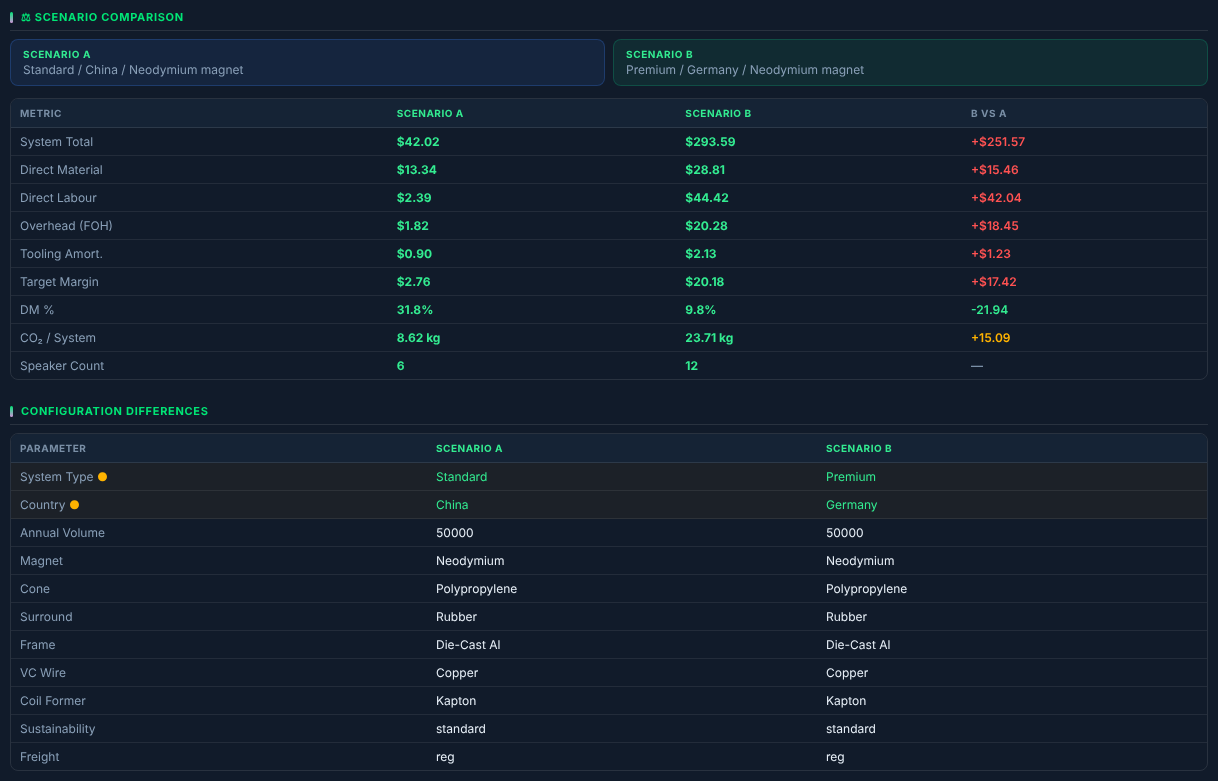
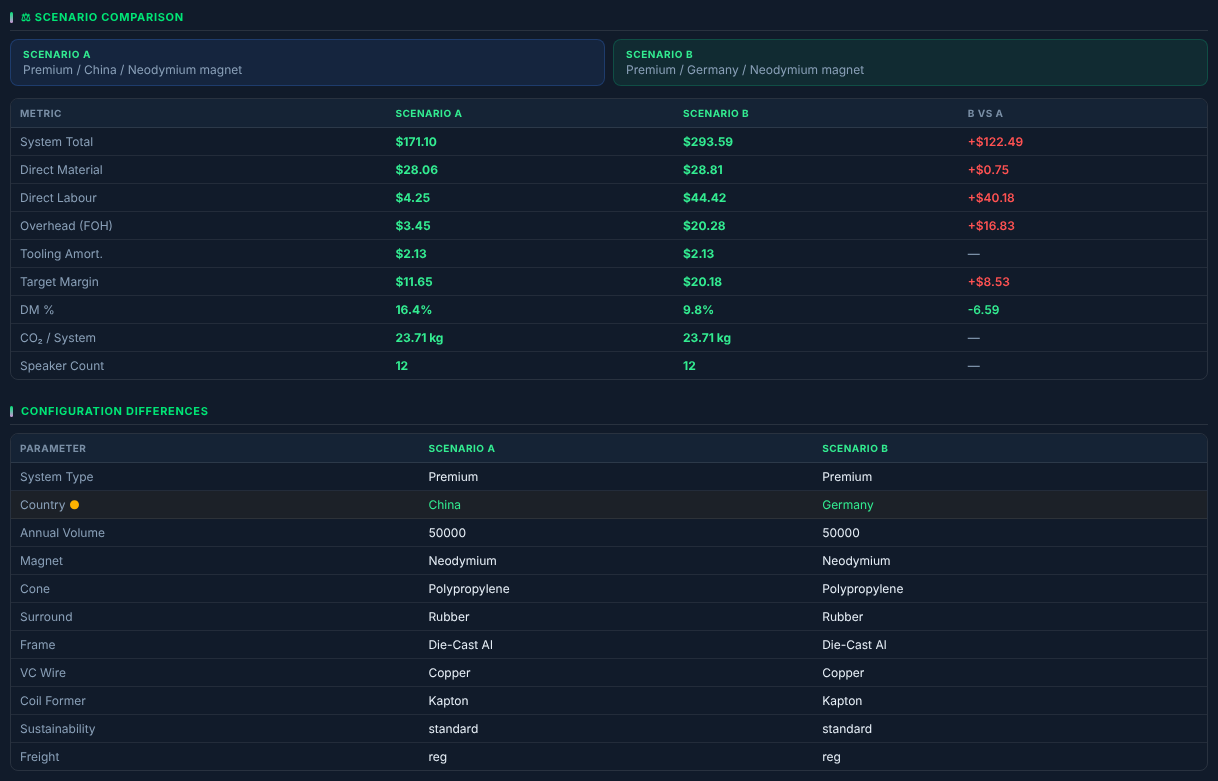
Apply expert-review must-fixes to the user guide (and two tool strings)
An independent domain-expert review (automotive audio cost engineering
persona) graded the guide B+ and flagged four factual issues, all fixed
in both the repo guide and the in-tool About guide:

- Compare worked-example screenshot retaken with the correct procedure
  (Scenario A = Premium/China, not Standard) — it now shows the exact
  figures the text quotes ($171.10 → $293.59, Δ +$122.49)
- Compare tab description now lists its real summary rows (system total,
  DM, labour, FOH, tooling, margin, DM%, CO2, speaker count)
- GGEC sanity rule corrected for margin-on-price arithmetic: customer
  price × 0.89, not ÷ 1.11 (three tool strings + both guides)
- Margin base documented: the slider applies to works cost; a supplier's
  "X% margin on sales" ≈ X/(100−X) here

Should-fixes applied alongside:
- Glossary extended with the waterfall's smaller layers (SG&A, ED&D,
  ICC/payment terms, warranty, inbound logistics, integration parts)
- Tooling caution (OEM-paid tooling POs) and volume price-break caveat
- New "Handling a real supplier quote" section (incoterm, tooling,
  volume, exclusions) + date-stamp/Trends advice
- "Actual rates, never a multiplier" softened to the honest claim
  (sourced rate cards with confidence badges)
- Benchmark caption "(X% cost advantage)" corrected to "(X% of the
  field)"; timing and column-label inconsistencies aligned; linked TOC

Claude-Session: https://claude.ai/code/session_01UxcE7KBmzXNDjKXkApu3kZ

diff --git a/speaker-cost-engine.html b/speaker-cost-engine.html
@@ -1316,7 +1316,7 @@ html[data-theme="light"] .brand-version{
         <div class="about-section avis" id="about-howto">
           <div class="about-hero">
             <h2>360° Automotive Speaker Should-Cost Engine — User Guide</h2>
-            <p>SonoCost builds the cost of an automotive speaker or complete music system from the bottom up, the way a supplier’s own cost engineer would: every gram of material, every minute of factory labour and machine time, then overheads, tooling, freight, duty and margin. You describe the system on the left; the tool prices it live on the right — for any of 22 manufacturing countries, using that country’s actual labour and energy rates (never a “multiplier”). Every number can be opened with its Σ trace to see the arithmetic behind it. If you have never done costing before, start with the guide below — it takes about 15 minutes to go from zero to a defendable number.</p>
+            <p>SonoCost builds the cost of an automotive speaker or complete music system from the bottom up, the way a supplier’s own cost engineer would: every gram of material, every minute of factory labour and machine time, then overheads, tooling, freight, duty and margin. You describe the system on the left; the tool prices it live on the right — for any of 22 manufacturing countries, each with its own rate card (labour, electricity, machine rates) carrying a source, date and confidence badge — no blanket “country multipliers”. Every number can be opened with its Σ trace to see the arithmetic behind it. If you have never done costing before, start with the guide below — it takes about 20 minutes to go from zero to a defendable number.</p>
             <div class="about-badges">
               <span class="about-badge badge-blue">22 Country Rate Cards</span>
               <span class="about-badge badge-green">SMM / SHFE Oct 2026</span>
@@ -1420,7 +1420,7 @@ html[data-theme="light"] .brand-version{
               <div class="step-num">7</div>
               <div class="step-body">
                 <h4>Set the commercial lens</h4>
-                <p><strong>Freight</strong> (Domestic / Regional / International), <strong>Import Duty</strong> and <strong>Margin</strong> decide what question you are answering. Defaults (Regional, 5% duty, 8% margin) answer <em>"what should we pay a Tier-1, delivered?"</em></p>
+                <p><strong>Freight</strong> (Domestic / Regional / International), <strong>Import Duty</strong> and <strong>Margin</strong> decide what question you are answering. Defaults (Regional, 5% duty, 8% margin) answer <em>"what should we pay a Tier-1, delivered?"</em> Note: the margin slider applies to <strong>works cost</strong>; a supplier's "X% margin on sales" ≈ X⁄(100−X) here (8% on sales ≈ 8.7%).</p>
                 <div class="step-warn">⚠ Comparing against a supplier's factory-gate (EXW) quote? Set margin 0%, duty 0% and read the <strong>Works Cost</strong> line in the cost build-up, not the Delivered Total.</div>
               </div>
             </div>
@@ -1493,8 +1493,8 @@ html[data-theme="light"] .brand-version{
               <div>✦ <strong>Benchmarking tab</strong> — your works cost against 10 real systems (Bose, Harman Kardon, B&amp;O, Burmester, CN-EV 4D…). A Standard system beating 10/10 is expected; a 4D system beats ~4/10 because the benchmarks include budget systems. You want to land <em>inside the corridor</em> of comparable tiers, not win every row.</div>
               <div>✦ <strong>Σ trace</strong> — open it for the most expensive driver and the amp. If you can read each line aloud and it makes sense, the number is defendable.</div>
               <div>✦ <strong>Data &amp; Sources tab</strong> — every rate the engine used right now, with source, date and a HIGH/MED/LOW confidence badge. Items marked EST are engineering estimates, labelled as such — nothing in this tool pretends to be sourced data unless it is.</div>
-              <div>✦ <strong>Sanity rule</strong> — a Chinese ODM's customer price ÷ 1.11 ≈ factory cost (GGEC reports ~11% gross margin). If a quote is far above your should-cost + reasonable margin, you have found your negotiation.</div>
-              <div>✦ <strong>Compare tab</strong> — save your baseline as Scenario A, change one thing (country, magnet, tier), save as B. The delta table shows the nine major cost lines (DM, labour, machine, FOH, G&amp;A, tooling, amp, wiring, total) plus what configuration changed. This is the strongest slide you can make.</div>
+              <div>✦ <strong>Sanity rule</strong> — a Chinese ODM's customer price × 0.89 ≈ factory cost (GGEC reports ~11% gross margin — margin on <em>price</em>, so multiply by 1−0.11). If a quote is far above your should-cost + reasonable margin, you have found your negotiation.</div>
+              <div>✦ <strong>Compare tab</strong> — save your baseline as Scenario A, change one thing (country, magnet, tier), save as B. The delta table shows the summary lines (system total, direct material, direct labour, overhead, tooling amortisation, target margin, DM%, CO&#8322;, speaker count) plus a diff of what configuration changed. This is the strongest slide you can make.</div>
               <div>✦ <strong>Export</strong> — PDF / PPT buttons (top right) generate the deck: KPIs, BOM, waterfall, benchmarks. Switch currency first if the audience thinks in €, ₹ or ¥.</div>
             </div>
           </div>
@@ -1617,7 +1617,7 @@ scrap    per step = (machCost + labCost) × scrap_rate</div>
             <div class="ref-card">
               <h4>Why the multiplier approach was removed</h4>
               <p>Earlier versions scaled a Western machine rate by a country multiplier. Real cost engineering doesn't accept that: a 250-ton moulding cell in Dongguan has an <strong>actual, knowable all-in rate</strong> (≈¥150–200/hr published) that no scaling factor reproduces reliably. The engine now carries, per country: fully burdened labour by skill tier, actual industrial electricity, and machine rates that are published where they exist and transparently derived where they don't — each value labelled with its source, date and confidence in the <strong>Data &amp; Sources</strong> tab.</p>
-              <div class="step-warn" style="margin-top:10px">Validation anchor: GGEC (002045.SZ), one of China's largest speaker ODMs, runs a 10.95% gross margin (FY2025) — a competitive should-cost lands ≈ customer price ÷ 1.11. Tonly (Harman's ODM) runs 11.4–13.5%.</div>
+              <div class="step-warn" style="margin-top:10px">Validation anchor: GGEC (002045.SZ), one of China's largest speaker ODMs, runs a 10.95% gross margin on sales (FY2025) — a competitive should-cost lands ≈ customer price × 0.89. Tonly (Harman's ODM) runs 11.4–13.5%.</div>
             </div>
           </div>
 
@@ -4081,7 +4081,7 @@ function renderBenchmarking(r) {
   var pct = (cheaper / BENCHMARKS.length * 100).toFixed(0);
   html += '<div class="card" style="padding:1rem;margin-top:1rem;border-color:var(--blue)">';
   html += '<p>Your system works cost (EXW ' + esc(r.inp.country) + ') <strong style="color:var(--blue2)">' + fGBP(r.totalWorks) + '</strong>, delivered total incl. margin <strong style="color:var(--gold)">' + fGBP(r.total) + '</strong> ';
-  html += 'beats <strong style="color:var(--green2)">' + cheaper + ' of ' + BENCHMARKS.length + '</strong> benchmarks (' + pct + '% cost advantage).</p>';
+  html += 'beats <strong style="color:var(--green2)">' + cheaper + ' of ' + BENCHMARKS.length + '</strong> benchmarks (' + pct + '% of the field).</p>';
   html += '<p style="font-size:10px;color:var(--t3);margin-top:6px;font-style:italic">⚠ Benchmark est_cost figures are EXW China factory-gate estimates derived from public teardown reports, SMM/SHFE commodity data, and analyst data (Jun 2026). Not supplier-verified. Use for directional reference only.</p>';
   html += '</div>';
 
@@ -5684,7 +5684,7 @@ function renderDataSources(r){
   html+='<div class="section-title" style="font-size:12px;margin-top:16px">Electronics Model & Validation Anchors</div>';
   html+='<div class="card" style="padding:12px;font-size:11px;color:var(--t2);line-height:1.7">';
   html+='Amplifier/DSP is a component-level parametric model ('+_srcCell('derived').replace('Derived from China decomposition x local energy & labour','Digi-Key/Mouser/LCSC/TI/ADI + Atlas PCB 2026 + JLCPCB')+'): TAS6424-class $4/IC OEM, ADAU1452/1467 DSP, AD2428 A2B nodes, PSU 2.50+0.012×W, PCB $2.20/dm², SMT $0.004/placement.<br>';
-  html+='<strong style="color:var(--t1)">Validation anchors:</strong> GGEC (China speaker ODM) gross margin 10.95% FY2025 → should-cost ≈ customer price ÷ 1.11; Tonly GM 11.4–13.5%; China 6.5&quot; coaxial EXW $3.6/pair–$6/pc (live listings); US IM rates $30–150/hr published; stripped 4-ch amp model $26 vs Nissan Kicks budget Bose amp (TechInsights, qualitative).<br>';
+  html+='<strong style="color:var(--t1)">Validation anchors:</strong> GGEC (China speaker ODM) gross margin 10.95% of sales FY2025 → should-cost ≈ customer price × 0.89; Tonly GM 11.4–13.5%; China 6.5&quot; coaxial EXW $3.6/pair–$6/pc (live listings); US IM rates $30–150/hr published; stripped 4-ch amp model $26 vs Nissan Kicks budget Bose amp (TechInsights, qualitative).<br>';
   html+='<strong style="color:var(--t1)">Honest limits:</strong> items marked EST have no published source — they are engineering estimates with stated derivations, not data. Supplier RFQs will beat this model; its job is to be directionally right and fully auditable.</div>';
 
   html+='<div class="section-title" style="margin-top:18px">Global Industry Map — who actually makes automotive audio</div>';

diff --git a/SONOCOST-GUIDE.md b/SONOCOST-GUIDE.md
@@ -4,13 +4,15 @@
 
 This guide is written for someone who has never done costing before. Follow it top to bottom once (about 20 minutes) and you will be able to produce — and defend — a should-cost for any system the tool supports, from a base 6-speaker setup to a 26-speaker Immersive 4D system with seat actuators. Every number printed in this guide was generated by the tool itself at the settings described, so your screen will match what you read.
 
-> The same guide lives inside the tool: **📘 About → How to Use**. This document adds screenshots.
+> The same guide lives inside the tool: **📘 About → How to Use**. This document adds the screenshots and three worked case studies.
+
+**Contents:** [1. What this tool does](#1-what-this-tool-does-one-paragraph) · [2. Open & sign in](#2-open-the-tool-and-sign-in) · [3. First costing in 8 steps](#3-your-first-costing--8-steps) · [4. The five system tiers](#4-the-five-system-tiers--what-you-are-actually-buying) · [5. Costing a single speaker](#5-costing-a-single-speaker-any-type) · [6. The output tabs](#6-reading-the-output-tabs) · [7–9. Worked examples](#7-worked-example-a--what-should-the-base-audio-cost) · [10. Prove the number](#10-before-you-present-prove-the-number) · [11. Glossary](#11-plain-language-glossary) · [12. Five common mistakes](#12-five-mistakes-every-new-grad-makes-once)
 
 ---
 
 ## 1. What this tool does (one paragraph)
 
-SonoCost builds cost **bottom-up**, the way a supplier's own cost engineer would: every gram of material (magnet, cone, voice-coil wire…), every minute of factory labour and machine time, then overheads, tooling, freight, duty and margin. You describe the system on the left side of the screen; the tool prices it live on the right — for any of **22 manufacturing countries**, using each country's **actual labour and electricity rates** (never a "country multiplier"). Any number can be opened with its **Σ trace** to see the arithmetic behind it. That is the whole idea: *a number you can explain line by line.*
+SonoCost builds cost **bottom-up**, the way a supplier's own cost engineer would: every gram of material (magnet, cone, voice-coil wire…), every minute of factory labour and machine time, then overheads, tooling, freight, duty and margin. You describe the system on the left side of the screen; the tool prices it live on the right — for any of **22 manufacturing countries**, each with its own rate card (labour, electricity, machine rates) carrying a **source, date and confidence badge** — no blanket "country multipliers". Any number can be opened with its **Σ trace** to see the arithmetic behind it. That is the whole idea: *a number you can explain line by line.*
 
 ---
 
@@ -45,10 +47,10 @@ You land on the **System Overview** with a Standard 6-speaker system in China al
 1. **Sign in** (above). You start from a working baseline: Standard, China, 50k vehicles/year.
 2. **Pick the System Type** (top of left panel). This is the biggest cost decision — it sets speaker count, amplifier, DSP, A2B bus, and (for 4D) seat actuators. The five tiers are explained in the next section.
 3. **Pick the Manufacturing Country.** 22 real choices, each labelled with who actually builds there (*Vietnam (Foster speaker hub)*, *Brazil (Harman/JBL Selenium)*…). Picking a country swaps in that country's actual labour rates, electricity price and machine-hour costs. China comes in three flavours — *national avg* (the default used throughout this guide), *Coastal (Guangdong)* and *Inland* — with slightly different labour rates, so note which one you picked. **Cost the system where it will really be built, not where your office is** — the same Premium system is **$171 built in China and $294 built in Germany**.
-4. **Set the Annual Volume** slider (1k–500k vehicles/year). Volume mainly changes how tooling (moulds, dies, fixtures) is spread: one tool set per speaker type, amortised over 4 years. Low volume = each unit carries more tooling. Get the number from the vehicle programme team; 50k is a typical single model, 150–250k a shared platform.
+4. **Set the Annual Volume** slider (1k–500k vehicles/year). Volume mainly changes how tooling (moulds, dies, fixtures) is spread: one tool set per speaker type, amortised over 4 years. Low volume = each unit carries more tooling. Get the number from the vehicle programme team; 50k is a typical single model, 150–250k a shared platform. Two real-world cautions: (a) many OEM programmes **pay production tooling on a separate tooling PO**, in which case the supplier's piece price contains no tooling — zero it out mentally (or compare against the tool's works cost *minus* the tooling line in the Σ trace) before comparing; (b) the model holds material rates flat with volume, but in reality purchased electronics and magnets carry volume price breaks — treat low-volume material costs as slightly optimistic.
 5. **Review the material choices — the defaults are correct.** NdFeB N38H magnet, PP cone, rubber surround, die-cast aluminium frame, OFC copper wire, Kapton former, 4 Ω: that is the automotive mainstream, straight from teardowns. Only change them to model a specific design. Every change re-prices instantly, so the fastest way to learn is to flip one and watch the BOM move.
 6. **Tick technology features** only if the spec has them: ANC, DSP, sound zones, 4D haptics, A2B bus, GaN amp, neural DSP, OTA calibration, head tracking… each adds its real component cost. Leave all unticked for a base costing.
-7. **Set the commercial lens.** Freight (Domestic/Regional/International), import duty, and target margin decide which question you are answering. The defaults (Regional, 5% duty, 8% margin) answer *"what should we pay a Tier-1, delivered?"* — see §7 for the EXW variant.
+7. **Set the commercial lens.** Freight (Domestic/Regional/International), import duty, and target margin decide which question you are answering. The defaults (Regional, 5% duty, 8% margin) answer *"what should we pay a Tier-1, delivered?"* — see §7 for the EXW variant. One convention to know: **the margin slider applies to works cost**. Suppliers usually quote margin as a % of *selling price*, so a supplier's "8% margin on sales" corresponds to about 8.7% on this slider (X% on sales ≈ X⁄(100−X) on cost).
 8. **Press ▶ Calculate Full Should-Cost** (the tool also re-prices live). Read the five tiles, then scroll down the Overview: the per-speaker table, the cost build-up from works cost to delivered total, and the system electronics lines (amp, wiring, connectors).
 
 ---
@@ -75,7 +77,7 @@ Where the jumps come from: Standard→Enhanced adds the amplifier and subwoofer.
 
 Every system is built from individual drivers, each priced separately in the **System Drivers** table on the Overview. In the Standard system:
 
-| Driver | Type | Size | Qty | Works cost / unit |
+| Driver | Type | Size | Qty | Unit cost (works) |
 |---|---|---|---|---|
 | Front Woofer | Coaxial | 165 mm | 2 | **$5.72** |
 | Rear Woofer | Coaxial | 130 mm | 2 | **$4.84** |
@@ -116,7 +118,7 @@ In **Driver Anatomy**, click a speaker-type chip. The chips track the current sy
 | **Sustainability** | CO₂ per material and system, recycled/bio content, compliance flags. |
 | **Benchmarking** | Your cost vs 10 real systems (Bose, Harman Kardon, B&O, Burmester, CN-EV 4D…). |
 | **AI Insights** | Rule-based cost position, risks and levers; add a Claude API key for narrative analysis. |
-| **Compare** | A vs B scenario delta: the nine major cost lines (DM, labour, machine, FOH, G&A, tooling, amp, wiring, total) plus what configuration changed. |
+| **Compare** | A vs B delta on the summary lines — system total, direct material, direct labour, overhead (FOH), tooling amortisation, target margin, DM%, CO₂, speaker count — plus a diff of what configuration changed. |
 | **Data & Sources** | Every rate the engine is using *right now*, with source, date and confidence badge. |
 
 ![Full BOM tab](docs/guide/09-bom-tab.png)
@@ -128,7 +130,7 @@ In **Driver Anatomy**, click a speaker-type chip. The chips track the current sy
 *Goal: should-cost for a Standard 6-speaker system, built in China, 50k/year, delivered.*
 
 1. Leave every default. Read the tiles: **Delivered Total $42.02**, 6 spk, DM 31.8%, CO₂ 8.62 kg, margin $2.76.
-2. Scroll the cost build-up: **works cost $34.53** (the factory-gate cost), + freight $2.86 + duty $1.87 + margin $2.76 = $42.02. Note there is **no amplifier line** — Standard is head-unit amplified; wiring ($7.36) and connectors ($1.32) carry the system cost.
+2. Scroll the cost build-up: **works cost $34.53** (the factory-gate cost), + freight $2.86 + duty $1.87 + margin $2.76 = $42.02. Note there is **no amplifier line** — Standard is head-unit amplified; wiring ($7.36) and connectors ($1.32) carry the system cost. The waterfall also shows the smaller Tier-1 cost layers — SG&A, ED&D recovery, ICC/payment terms, warranty, inbound logistics, integration parts — all defined in the glossary (§11).
 3. Open the Σ trace of the Front Woofer and skim it once — DM $3.10, then process, overheads, tooling.
 4. Benchmarking tab: a Standard system beats 10/10 benchmarks — expected, since the benchmarks are branded systems.
 
@@ -140,7 +142,7 @@ In **Driver Anatomy**, click a speaker-type chip. The chips track the current sy
 
 1. Set System Type = Premium, country = China. Click **💾 Save as A** (bottom of the left panel).
 2. Change country to **Germany**. Total jumps **$171.10 → $293.59** (+72%). The front mid-woofer alone goes $4.50 → $12.13/unit.
-3. Click **💾 Save as B**. The Compare tab opens with the delta across the major cost lines: materials barely move (+$0.75 — commodities are global), while **direct labour (+$40.18) and overheads (+$16.83)** carry the gap. (The listed lines are the big movers, not an exhaustive sum — freight, duty and margin also scale into the +$122.49 total.)
+3. Click **💾 Save as B**. The Compare tab opens with the delta on the summary lines: direct material barely moves (+$0.75 — commodities are global), while **direct labour (+$40.18) and overhead (+$16.83)** carry the gap. (These are the big movers, not an exhaustive sum — freight, duty and margin also scale into the +$122.49 total.)
 4. Export PPT — the deck now contains your A/B case.
 
 ![Compare tab — Premium China (A) vs Premium Germany (B)](docs/guide/11-compare-ab.png)
@@ -151,7 +153,7 @@ In **Driver Anatomy**, click a speaker-type chip. The chips track the current sy
 
 1. System Type = **Immersive 4D**, China, your programme volume. Read: **$319.78 delivered / $273.38 works** — 26 speakers including 4 seat actuators at $3.04 each, and an 18-channel A2B amplifier at $115.45 (open its trace to see amp ICs, DSP, PSU, PCB, housing priced separately).
 2. Benchmarking tab: the engine's own 4D works cost sits right beside the **CN-EV 4D benchmark (~$310 est.)** — it beats 4 of 10 benchmarks, which is correct for a flagship (the list includes budget systems; you want to land *inside the corridor* of comparable tiers, not win every row).
-3. Sanity rule: a Chinese ODM's customer price ÷ 1.11 ≈ factory cost (GGEC reports ~11% gross margin). A quote far above your should-cost + reasonable margin is your negotiation target.
+3. Sanity rule: a Chinese ODM's customer price **× 0.89** ≈ factory cost (GGEC reports a ~11% gross margin — margin on *price*, so you multiply by (1 − 0.11), not divide by 1.11). A quote far above your should-cost + reasonable margin is your negotiation target.
 
 ![Benchmarking the Immersive 4D system](docs/guide/08-bench-4d.png)
 
@@ -163,6 +165,16 @@ In **Driver Anatomy**, click a speaker-type chip. The chips track the current sy
 - **Data & Sources tab** — every rate with source, date and a HIGH/MED/LOW confidence badge. Items marked EST are engineering estimates and labelled as such; nothing in the tool pretends to be sourced data unless it is.
 - **Benchmarking** — land inside the corridor of comparable systems.
 - **Export** — PDF/PPT buttons generate the deck (KPIs, BOM, waterfall, benchmarks). Switch the display currency first if your audience thinks in €, ₹ or ¥.
+- **Date-stamp your output.** Commodity and FX inputs move — the footer shows the rate vintage ("rates Oct-2026"), and 📡 Trends shows the live tickers. Note the NdFeB and copper basis on your slide, and rerun the tool shortly before the negotiation rather than reusing last quarter's number.
+
+### Handling a real supplier quote
+
+When a real quote lands on your desk, normalise before comparing — differences are usually in the commercial wrapper, not the parts:
+
+1. **Match the incoterm.** EXW quote → margin 0%, duty 0%, compare to **works cost**. DDP/delivered quote → compare to the delivered total with the right freight mode and duty.
+2. **Check who pays tooling.** If tooling is on a separate PO (common), subtract the tooling-amortisation line (visible in the Σ trace) from the tool's figure first.
+3. **Match the volume.** Re-run the tool at the quoted volume — a quote at 20k/yr against your 100k model flatters nobody.
+4. **Ask what's excluded.** Packaging type, payment terms, warranty terms and ED&D recovery are the classic places a "cheap" quote hides cost — the waterfall lines tell you what to ask about.
 
 ![Data & Sources — the live rate card with provenance](docs/guide/10-data-sources.png)
 
@@ -185,6 +197,13 @@ In **Driver Anatomy**, click a speaker-type chip. The chips track the current sy
 | **ANC** | Active noise cancellation. |
 | **NdFeB N38H / N52** | Neodymium magnet grades — higher number = stronger = dearer. N38H is the automotive workhorse. Ferrite is the cheap, heavy alternative. |
 | **Scrap** | Material lost in production, costed as a small multiplier (×1.02 = 2% loss). |
+| **SG&A** | Selling, general & administrative cost — the supplier's commercial overhead layer. |
+| **ED&D recovery** | Engineering, Design & Development — the supplier's development effort for your programme, amortised into the piece price. |
+| **ICC / payment terms** | Inventory carrying cost — the financing cost of stock and of waiting 60–90 days to get paid. |
+| **Warranty accrual** | A small per-unit provision for field failures the supplier must cover. |
+| **Inbound logistics** | Freight on the materials coming *into* the factory (outbound freight to the customer is the separate line). |
+| **Integration parts** | The per-driver extras that make a speaker fit a car: brackets, pods, grilles, connectors. |
+| **Margin (here)** | Applied to **works cost** in this tool. A supplier's "margin on sales" of X% ≈ X⁄(100−X) on this slider. |
 
 ## 12. Five mistakes every new grad makes once
 
